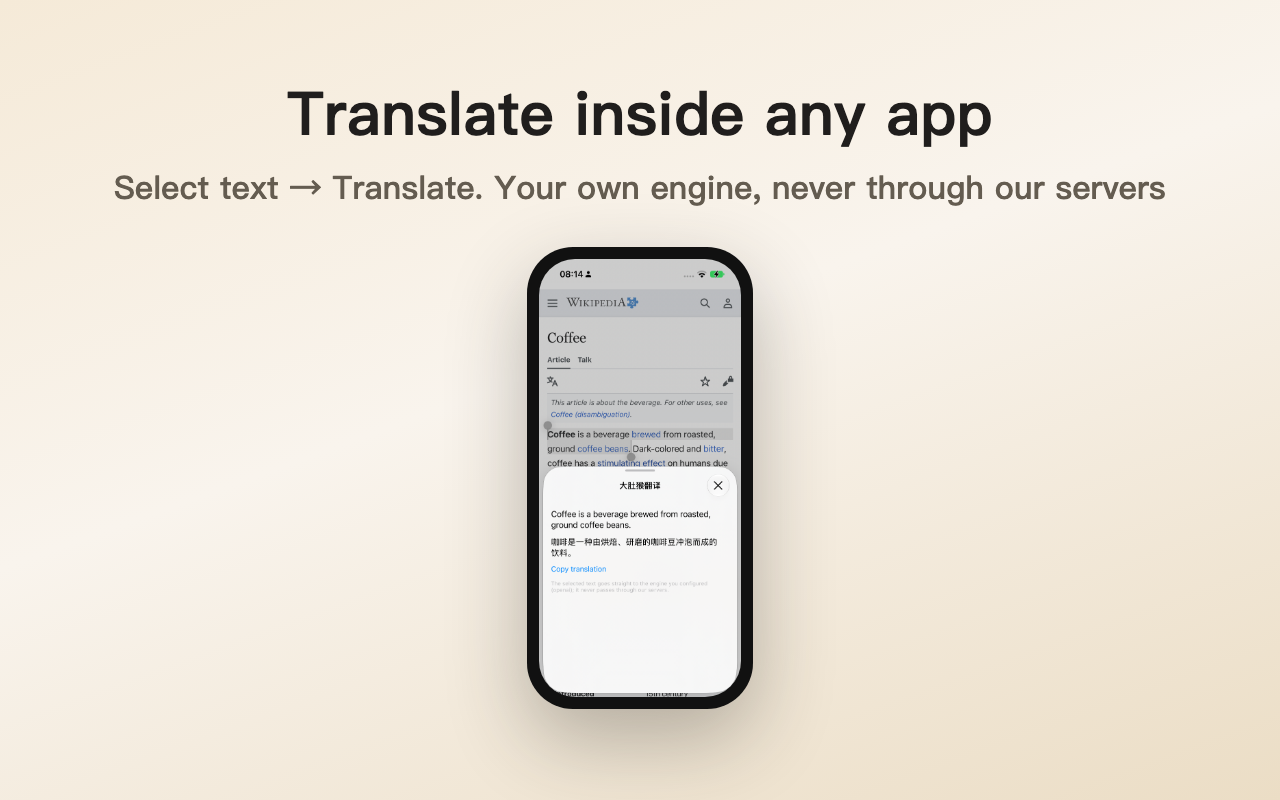
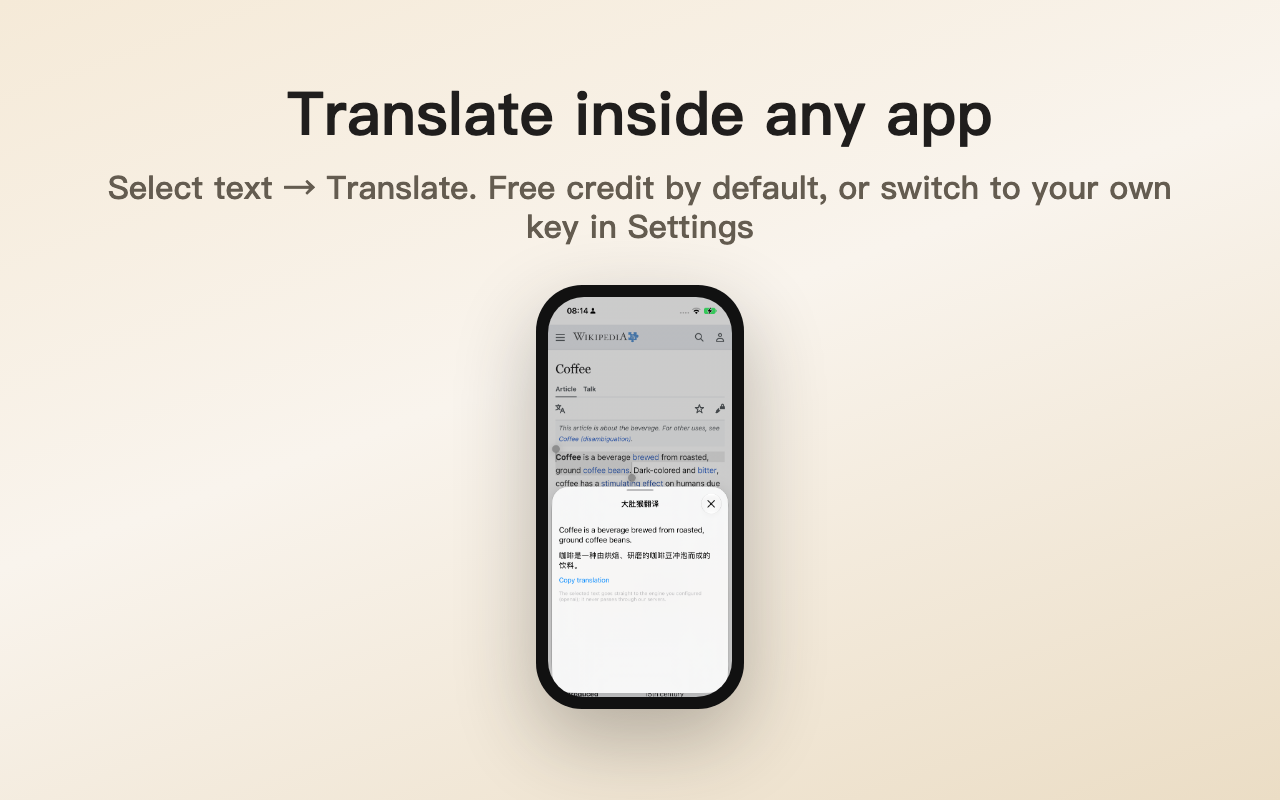
#104: 系统翻译商店帧 10 披露改稿（默认免费额度，自带 key 可选）

Changed region(s): [[0.0625, 0.2188, 0.9375, 0.875]]

diff --git a/store-assets/src/scene.html b/store-assets/src/scene.html
@@ -84,7 +84,7 @@ const COPY = {
     // 10：1.14 的主角，**只在 iPhone / iPad 上**（macOS 没有 TranslationUIProvider 这个扩展点）。
     // 所以它只进 iPhone 那一集，不进 iPad（没有 iPad 硬件拍原料，模拟器里没有这个扩展点）、
     // 不进 Mac、不进扩展两店（APP_ONLY_GLOBAL）。
-    10: ['在任何 App 里翻译', '选中文字 → 翻译。用你自己配的引擎，不经过我们的服务器'],
+    10: ['在任何 App 里翻译', '选中文字 → 翻译。默认用免费额度，也可在设置里换成你自己的 key'],
     // 11：1.13.1 的主角「快速翻译」，**只在 Mac 上**（iPhone / iPad 上没有这个功能）。
     // 所以它只进 Mac 那一集与官网，不进 iPhone / iPad、不进扩展两店 —— 与帧 10 镜像对称。
     11: ['在 Mac 上，划一下就有译文', '选中按快捷键，译文贴着光标出现，不抢焦点'],
@@ -99,7 +99,7 @@ const COPY = {
     7: ['Whole documents, too', 'PDF, Word, images — one page at a time, translations you can review'],
     8: ['Live subtitles for any app', 'A floating bar on Mac, Picture in Picture on iPhone'],
     9: ['Face to face, translated live', 'Speak freely — sorted by speaker, read aloud'],
-    10: ['Translate inside any app', 'Select text → Translate. Your own engine, never through our servers'],
+    10: ['Translate inside any app', 'Select text → Translate. Free credit by default, or switch to your own key in Settings'],
     11: ['On your Mac, select and it\'s translated', 'Press the shortcut — the translation appears by your cursor, without stealing focus'],
   },
 };
